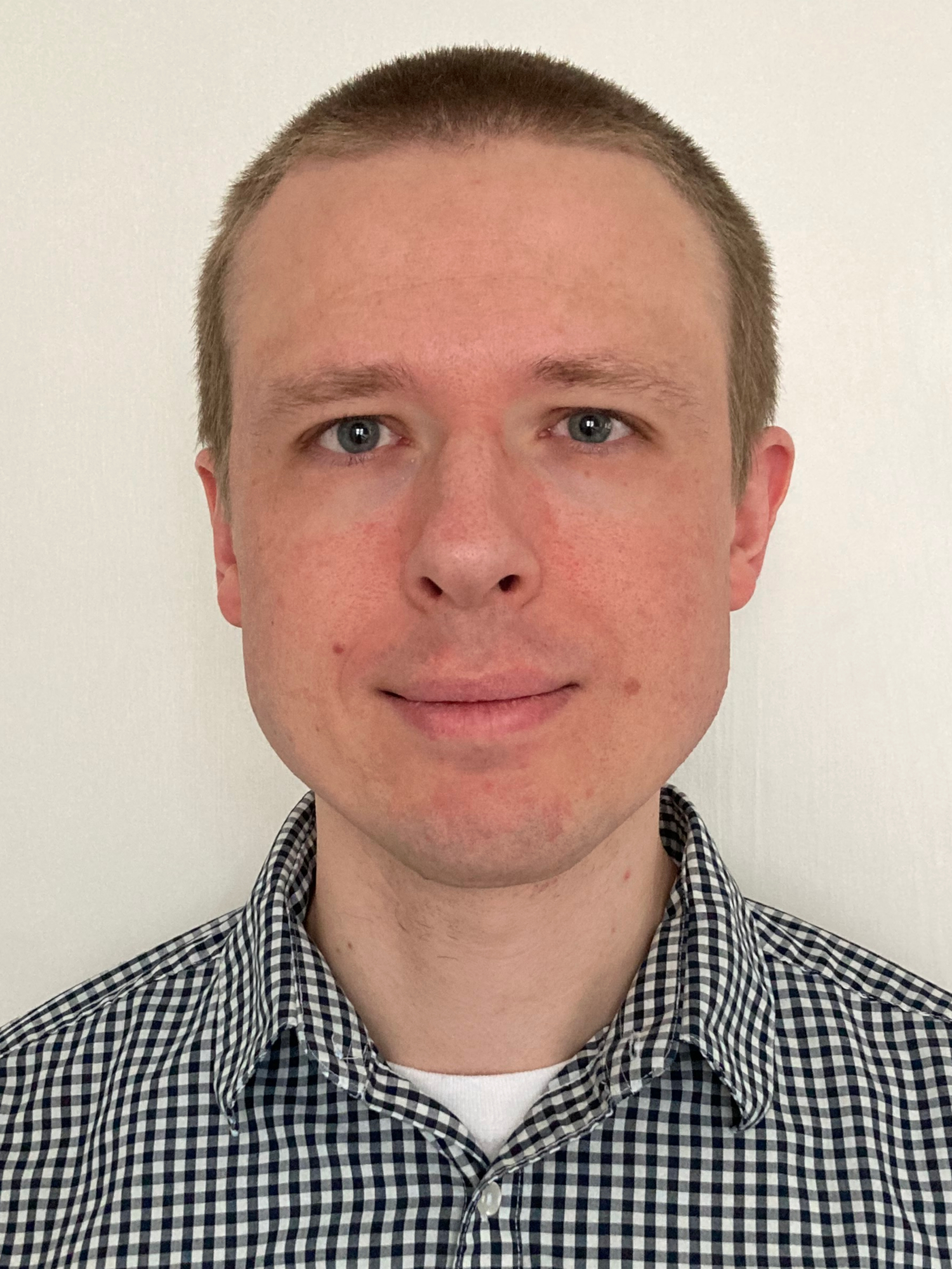
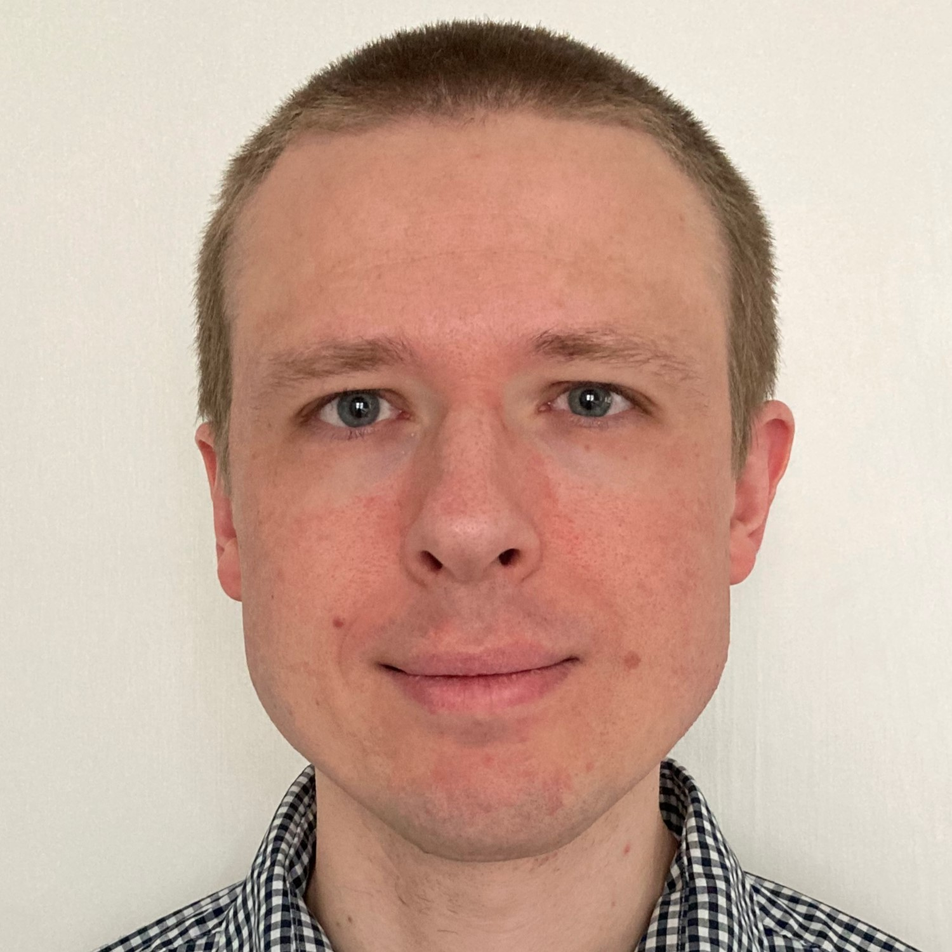
updated jon photo and delayed touch praxis event

diff --git a/src/content/people/jon-bratt.md b/src/content/people/jon-bratt.md
@@ -1,3 +1,11 @@
 ---
 name: Jon Bratt
+cardBlurb: Jonathan Bratt is a Geography instructor at Rowan University and a PhD candidate in Geography at Arizona State University. His scholarly and creative interests are in geographic thought, urban public life, media geographies, and China. Jonathan is also a former director of the Post-Human Network organization based at Arizona State. He currently lives in New Jersey with his wife and two children.
+image: '/src/content/people/images/jon-bratt.jpg'
+# social: object (optional)
+#     display: string for link text
+#     url: actual url 
+# website: object (optional)
+#     display: string for link text
+#     url: actual url
 ---
